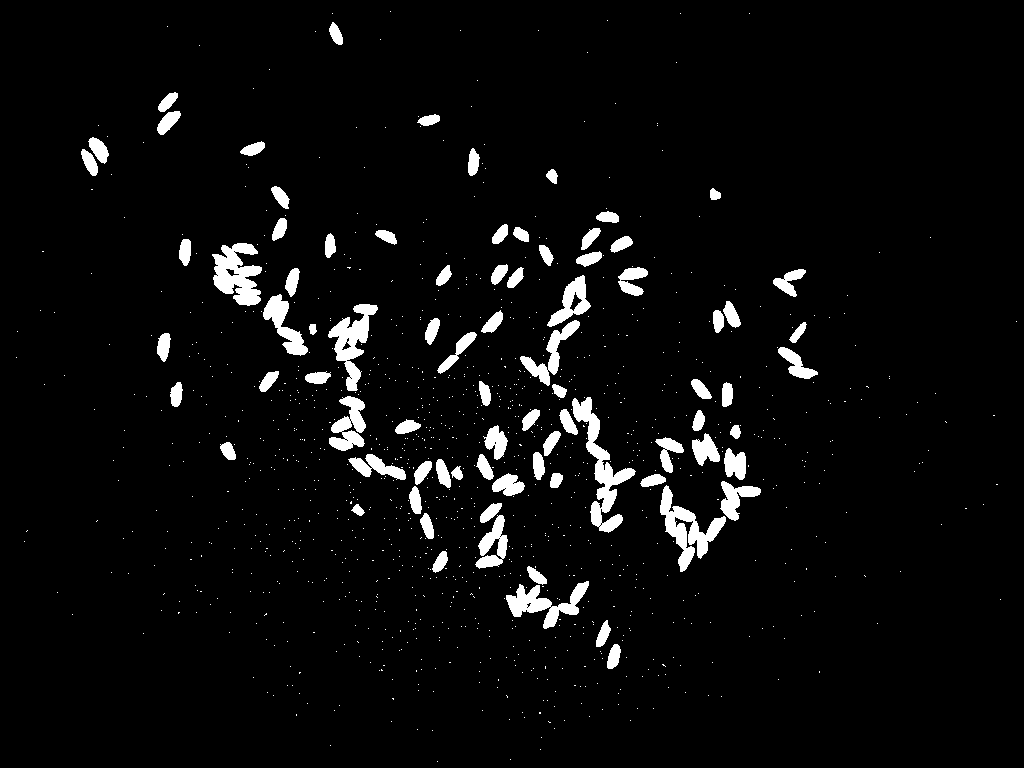
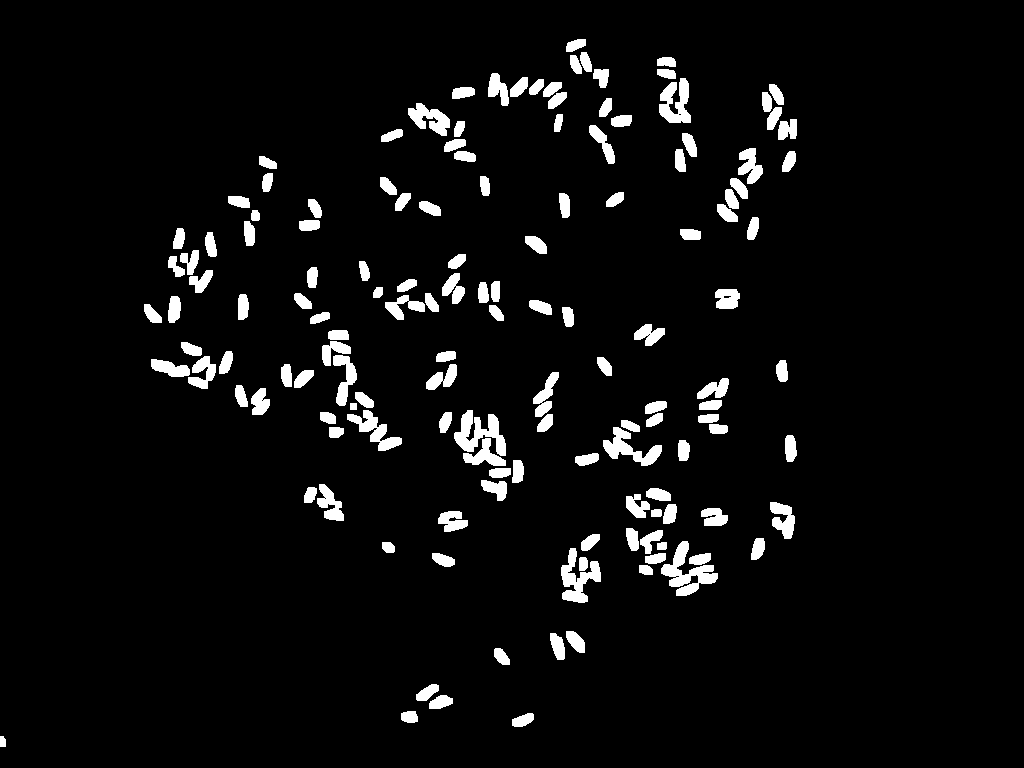
.

diff --git a/count-rices/main.py b/count-rices/main.py
@@ -12,7 +12,7 @@ import cv2
 
 #===============================================================================
 
-INPUT_IMAGE =  './images/150.bmp'
+INPUT_IMAGE =  './images/205.bmp'
 
 NEGATIVO = False
 THRESHOLD = 0.60
@@ -24,35 +24,14 @@ sys.setrecursionlimit(1500)
 
 #===============================================================================
 
-def binariza (img, threshold):
-    ''' Binarização simples por limiarização.
 
-Parâmetros: img: imagem de entrada. Se tiver mais que 1 canal, binariza cada
-              canal independentemente.
-            threshold: limiar.
-            
-Valor de retorno: versão binarizada da img_in.'''
+def binariza(img, threshold):
 
-    return np.where(img < THRESHOLD, 0, 1)
+    return 255 - cv2.adaptiveThreshold(255 - img, 255, cv2.ADAPTIVE_THRESH_MEAN_C, cv2.THRESH_BINARY, 15, 3)
 
 #-------------------------------------------------------------------------------
 
 def rotula (img, largura_min, altura_min, n_pixels_min):
-    '''Rotulagem usando flood fill. Marca os objetos da imagem com os valores
-[0.1,0.2,etc].
-
-Parâmetros: img: imagem de entrada E saída.
-            largura_min: descarta componentes com largura menor que esta.
-            altura_min: descarta componentes com altura menor que esta.
-            n_pixels_min: descarta componentes com menos pixels que isso.
-
-Valor de retorno: uma lista, onde cada item é um vetor associativo (dictionary)
-com os seguintes campos:
-
-'label': rótulo do componente.
-'n_pixels': número de pixels do componente.
-'T', 'L', 'B', 'R': coordenadas do retângulo envolvente de um componente conexo,
-respectivamente: topo, esquerda, baixo e direita.'''
 
     # Use a abordagem com flood fill recursivo.
 
@@ -108,8 +87,6 @@ respectivamente: topo, esquerda, baixo e direita.'''
                 flood(x, y, component)
                 components.append(component)
                 component_count += 1
-    
-    print(components)        
 
     return list(filter(lambda component: component['n_pixels'] > n_pixels_min, components))
 
@@ -118,38 +95,71 @@ respectivamente: topo, esquerda, baixo e direita.'''
 def main ():
 
     # Abre a imagem em escala de cinza.
-    img = cv2.imread (INPUT_IMAGE, cv2.IMREAD_GRAYSCALE)
+    original = cv2.imread (INPUT_IMAGE, cv2.IMREAD_COLOR)
+    img = original.copy()
     if img is None:
         print ('Erro abrindo a imagem.\n')
         sys.exit ()
 
     # É uma boa prática manter o shape com 3 valores, independente da imagem ser
     # colorida ou não. Também já convertemos para float32.
-    img = img.reshape ((img.shape [0], img.shape [1], 1))
-    img = img.astype (np.float32) / 255
 
+    img = cv2.cvtColor (img, cv2.COLOR_BGR2GRAY)
+    img = img.reshape ((img.shape [0], img.shape [1], 1))
     # Mantém uma cópia colorida para desenhar a saída.
-    img_out = cv2.cvtColor (img, cv2.COLOR_GRAY2BGR)
+    img_out = img
+
 
     # Segmenta a imagem.
     if NEGATIVO:
-        img = 1 - img
+        img = 1 - img    
+
+    ## binariza via limiar adaptativo
     img = binariza (img, THRESHOLD)
-    # cv2.imshow ('01 - binarizada', img)
-    cv2.imwrite ('01 - binarizada.png', img*255)
 
-    start_time = timeit.default_timer ()
-    componentes = rotula (img, LARGURA_MIN, ALTURA_MIN, N_PIXELS_MIN)
-    n_componentes = len (componentes)
-    print ('Tempo: %f' % (timeit.default_timer () - start_time))
-    print ('%d componentes detectados.' % n_componentes)
+    ## tirar ruído via abertura (morfologia)
+    kernel = np.ones((6,6),np.uint8)
+    img = cv2.morphologyEx(img, cv2.MORPH_OPEN, kernel)
+    img = img.reshape ((img.shape [0], img.shape [1], 1))
+    cv2.imwrite ('01 - binarizada.png', img)
 
-    # Mostra os objetos encontrados.
-    for c in componentes:
-        cv2.rectangle (img_out, (c ['L'], c ['T']), (c ['R'], c ['B']), (0,0,1))
+    kernel = np.ones((3,3),np.uint8)
+    img_erosion = cv2.erode(img, kernel, iterations=2)
+    cv2.imwrite ('01 - erodida.png', img_erosion)
 
-    # cv2.imshow ('02 - out', img_out)
-    cv2.imwrite ('02 - out.png', img_out*255)
+    duo = np.zeros(img.shape)
+
+    for y in range(0, img.shape[0]):
+        for x in range(0, img.shape[1]):
+            if(img[y][x][0] == 255):
+                duo[y][x][0] = original[y][x][0]
+
+    cv2.imwrite ('01 - duo.png', duo)
+
+    a,ret = cv2.threshold(duo,200,255,cv2.THRESH_BINARY)
+
+    kernel = np.ones((5,5),np.uint8)
+    ret = cv2.erode(ret, kernel, iterations=1)
+
+    cv2.imwrite ('01 - ret.png', ret)
+
+# 
+    # output = np.zeros(original.shape)
+    # output = cv2.normalize(duo, output, 0, 255, cv2.NORM_MINMAX)
+    # cv2.imwrite ('01 - normalized.png', duo)
+
+    # start_time = timeit.default_timer ()
+    # componentes = rotula (img, LARGURA_MIN, ALTURA_MIN, N_PIXELS_MIN)
+    # n_componentes = len (componentes)
+    # print ('Tempo: %f' % (timeit.default_timer () - start_time))
+    # print ('%d componentes detectados.' % n_componentes)
+
+    # # Mostra os objetos encontrados.
+    # for c in componentes:
+    #     cv2.rectangle (img_out, (c ['L'], c ['T']), (c ['R'], c ['B']), (0,0,1))
+
+    # # cv2.imshow ('02 - out', img_out)
+    # cv2.imwrite ('02 - out.png', img_out*255)
     cv2.waitKey ()
     cv2.destroyAllWindows ()
 
